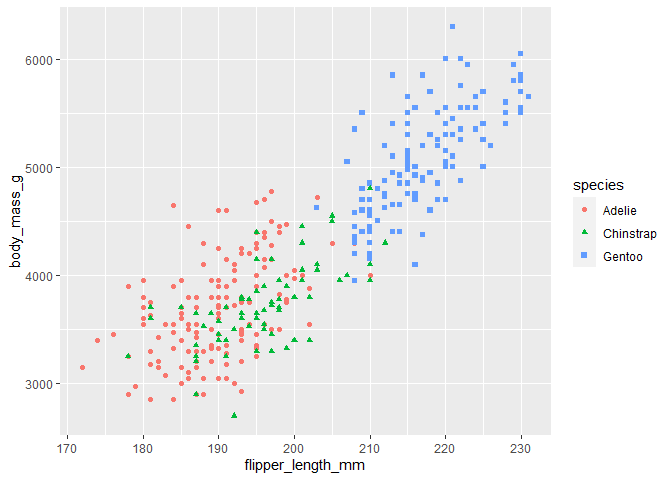
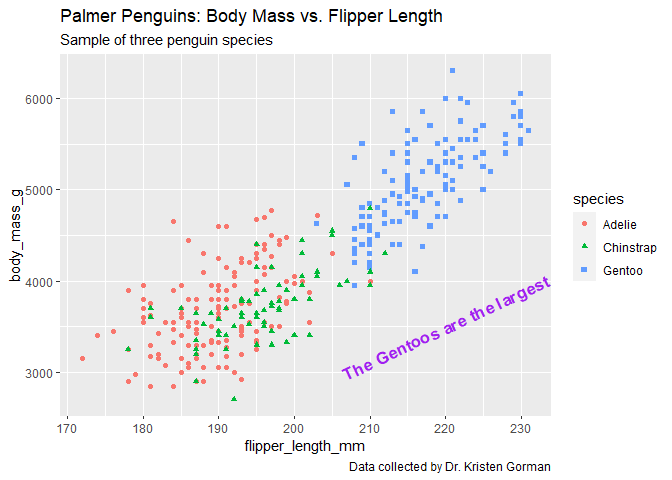
Learned about creating visualizations (different types of graph), adding layers, adding titles, axes, and annotations. Learned how to filter and plot. Finally, learned how to save a plot.

diff --git a/Hands-On-Activity_Data-Visualization.md b/Hands-On-Activity_Data-Visualization.md
@@ -50,14 +50,29 @@ ggplot(data = penguins) +
 
 ![](Hands-On-Activity_Data-Visualization_files/figure-gfm/unnamed-chunk-1-1.png)<!-- -->
 
+#### Plot with annotation
+
 ``` r
 ggplot(data = penguins) +
-  geom_point(aes(x= flipper_length_mm, y = body_mass_g, color = species, shape = species))
+  geom_point(aes(x= flipper_length_mm, y = body_mass_g, color = species, shape = species)) +
+  labs(title = "Palmer Penguins: Body Mass vs. Flipper Length",
+       subtitle = "Sample of three penguin species",
+       caption = "Data collected by Dr. Kristen Gorman") +
+  annotate("text", x = 220, y = 3500, label = "The Gentoos are the largest", 
+           color = "purple", fontface = "bold", size = 4.5, angle = 25) 
 ```
 
     ## Warning: Removed 2 rows containing missing values (`geom_point()`).
 
 ![](Hands-On-Activity_Data-Visualization_files/figure-gfm/unnamed-chunk-2-1.png)<!-- -->
+
+``` r
+  #the values of x and y in this annotation function refers to the coordination of the text.
+```
+
+\*\*\* We can save the code as a variable in the environment if we want
+to use the same code again, so we don’t have to write the same code over
+and over again.\*\*\*
 
 ### Line graph
 
@@ -378,7 +393,7 @@ ggplot(data = hotel_bookings) +
 
 ![](Hands-On-Activity_Data-Visualization_files/figure-gfm/pressure-1.png)<!-- -->
 
-## Step 6: Facets galore
+## Facets galore
 
 After reviewing the new charts, your stakeholder asks you to create
 separate charts for each deposit type and market segment to help them
@@ -592,3 +607,20 @@ do just that. You will learn more about `ggplot2` in the next activity!
 
 - To create a trend line in a scatterplot, add another geom function:
   `geom_smooth()`.
+
+# Save your plot
+
+## Option 1: Export
+
+Under the ‘Plots’ tab, choose the ‘Export’ option and save it as image
+or PDF.
+
+## Option 2: `ggsave()`
+
+`ggsave()` automatically save the last plot that was displayed. We have
+to give the file a name and tell R what kind of file we want to save it
+as.
+
+``` r
+ggsave("Three Penguin Species.png")
+```
